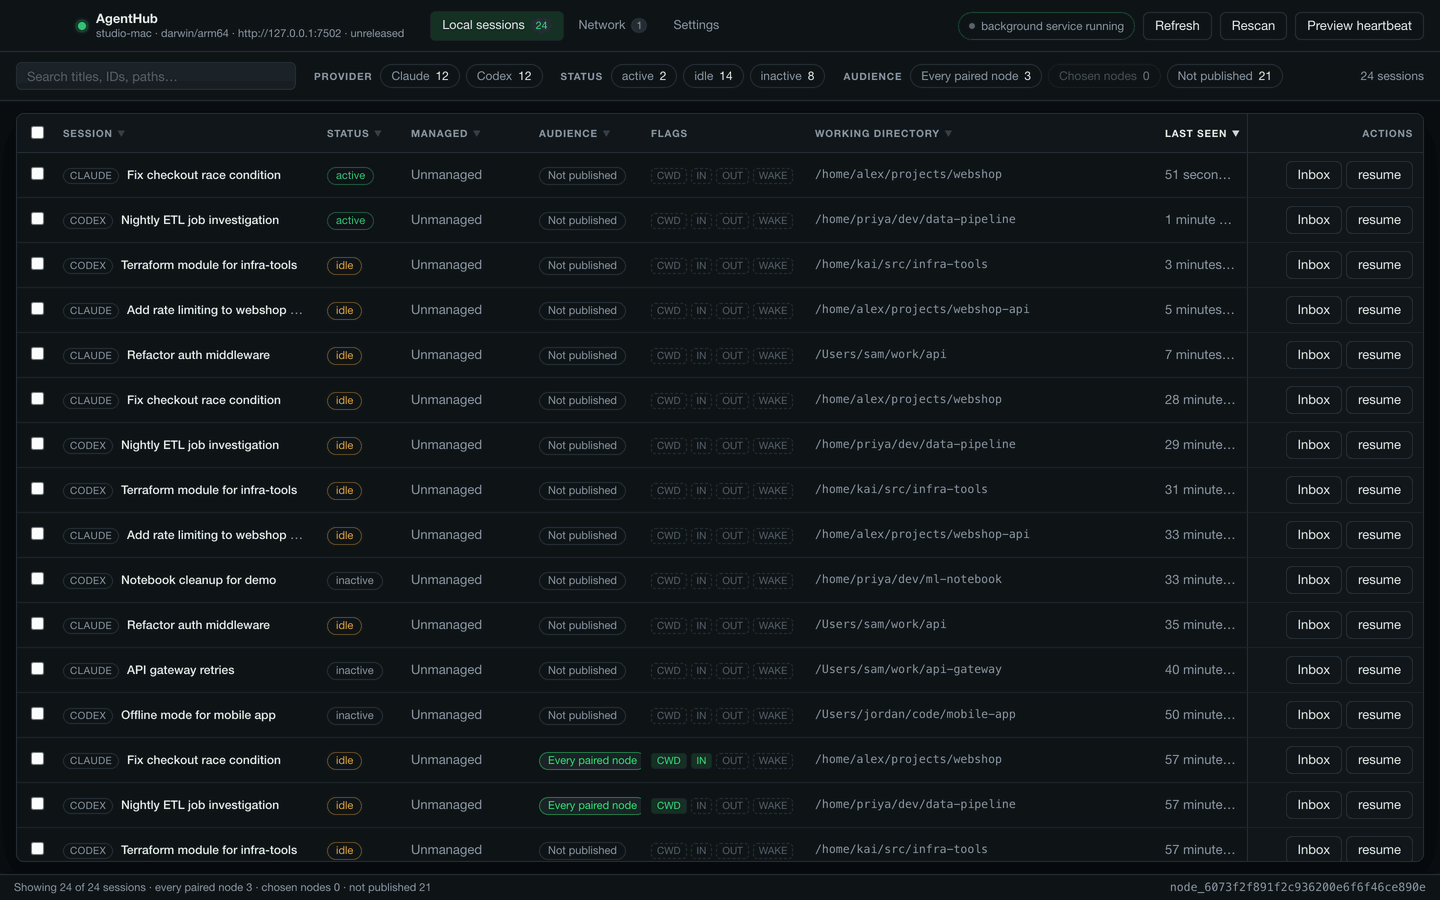
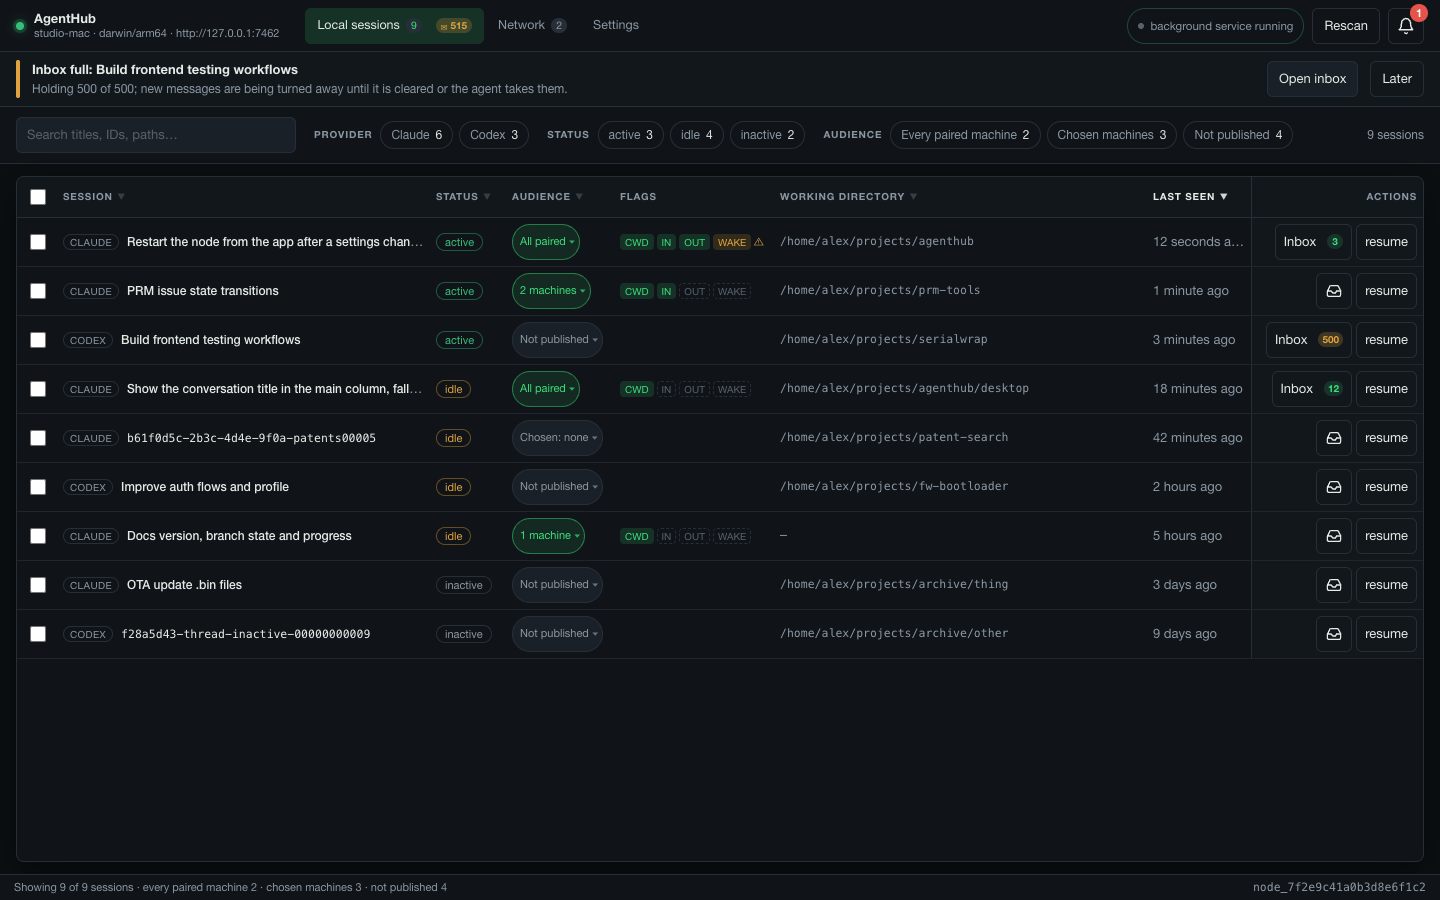
docs: screenshots of the current window, taken from a demo-only mock page
- dev/mock.js: ?demo=readme drops the hostile test row (counts follow), turns
  the background photo and rain off through the stored appearance switches,
  and leaves the version off the title line; every other load is unchanged
- local-sessions.png and network-pairing.png retaken at 1440x900 from the
  current window: bell, flags column, audience buttons, attention row, and the
  first-run wizard's fingerprint comparison
- new first-run.png (wizard step 1) and inline-publish.png (row audience menu)
- README: descriptive alt text, a sentence for the first-run picture, the
  inline menu under "What it does", and a note that the data is made up

diff --git a/desktop/frontend/dev/mock.js b/desktop/frontend/dev/mock.js
@@ -59,6 +59,20 @@ let pairingOpen = !globalThis.location?.search?.includes("onboarding=");
 const query = new URLSearchParams(globalThis.location?.search ?? "");
 const pairShape = query.get("pair") ?? "";
 
+// `?demo=readme`: the page the README screenshots are taken from. The hostile
+// row above stays in every other load — it is what proves the table escapes
+// what a session file says — but a picture of it on the project's front page
+// would read as a bug. The background photo is off too (see the storage
+// override before boot), so the table is what the picture shows.
+const readmeDemo = query.get("demo") === "readme";
+if (readmeDemo) {
+  const hostile = sessions.findIndex((s) => s.providerSessionId.includes("hostile"));
+  if (hostile >= 0) {
+    sessions.splice(hostile, 1);
+    Object.assign(counts, { total: sessions.length, claude: counts.claude - 1, none: counts.none - 1 });
+  }
+}
+
 // The first-run wizard, which the finished window above can never show: every
 // one of its triggers is a thing this preview already has. `?onboarding=`
 // takes them away.
@@ -543,7 +557,10 @@ configure({
   // The build the window reports in its title bar. "unreleased" is what a
   // build that no tag stamped really answers, so that is what the dev page
   // shows rather than a version number nothing produced.
-  Version: async () => ({ release: "unreleased", goos: "darwin", goarch: "arm64" }),
+  // The README page leaves the version off: a picture on the front page that
+  // said "unreleased" would be wrong for every reader, and one with a number in
+  // it would be wrong after the next release.
+  Version: async () => ({ release: readmeDemo ? "" : "unreleased", goos: "darwin", goarch: "arm64" }),
   RestartService: async () => { log("RestartService"); await sleep(600); serviceShape = ""; unreachable = false; servicePid += 1; return { command: "ah service restart", output: `restarted (pid ${servicePid})` }; },
   // What the window actually calls. It was missing, so every save on this page
   // ended in "could not restart the node: api.RestartNode is not a function" — the dev
@@ -592,6 +609,17 @@ if (onboarding) {
     localStorage.setItem(key, JSON.stringify(ui));
   } catch {
     // Storage disabled: nothing was remembered either.
+  }
+}
+// The README page turns the photo and the rain off through the same stored
+// switches Settings → Appearance writes, so app.js keeps its own defaults.
+if (readmeDemo) {
+  try {
+    const key = "agenthub.desktop.ui.v1";
+    const ui = JSON.parse(localStorage.getItem(key) ?? "{}") ?? {};
+    localStorage.setItem(key, JSON.stringify({ ...ui, backdrop: false, motion: false }));
+  } catch {
+    // Storage disabled: the photo stays on, which only changes the picture.
   }
 }
 const preview = boot({ backdropUrl: backdrop });

diff --git a/README.md b/README.md
@@ -14,11 +14,18 @@ Private by default (every session it finds starts invisible; you choose what
 each peer sees). No cloud, no account, no telemetry. Written in Go, open source
 under the MIT license.
 
-![Local sessions](docs/screenshots/local-sessions.png)
+![The Local sessions table: nine Claude Code and Codex sessions with their status, audience button, CWD/IN/OUT/WAKE flags and inbox counts, a notification bell, and an "Inbox full" row asking for attention](docs/screenshots/local-sessions.png)
 
-![Network: a paired machine, and a pairing request to compare](docs/screenshots/network-pairing.png)
+![Pairing: the first-run wizard's step 2, showing the requester's and receiver's fingerprints to compare against the other machine's screen, with "Same — approve" and "Different — reject" buttons](docs/screenshots/network-pairing.png)
 
-The window is in English and 繁體中文.
+On a fresh install the window opens on a three-step setup — get this machine
+ready, connect another, share sessions — and nothing is published until you
+choose it, session by session.
+
+![First-run setup, step 1: a checklist for running AgentHub in the background, starting it at login and letting other machines on the network reach it, with "Get this machine ready" and "Use it on this machine only" buttons](docs/screenshots/first-run.png)
+
+The window is in English and 繁體中文. These pictures are the app's own preview
+page with made-up sessions and machines.
 
 ## What it does
 
@@ -41,6 +48,10 @@ The window is in English and 繁體中文.
 - **Never writes into a provider's files or process.** Messages live in
   AgentHub's own SQLite database; handing one to an agent goes through that
   provider's own API, or not at all.
+
+A session's audience is a menu on its own row:
+
+![The inline audience menu open on a session published to two chosen machines: Not published, Can leave messages (ticked), and Messages and waking (unavailable for a Claude Code session), with a link to the full dialog](docs/screenshots/inline-publish.png)
 
 ## Install
 
